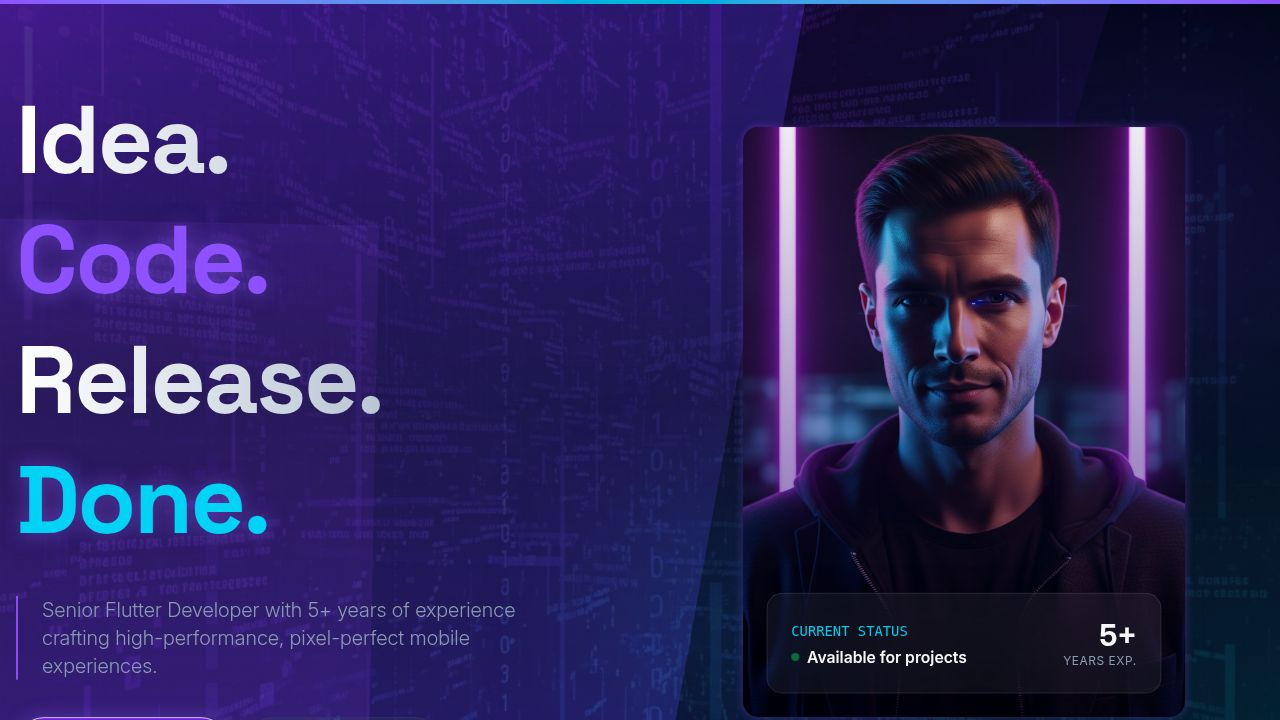
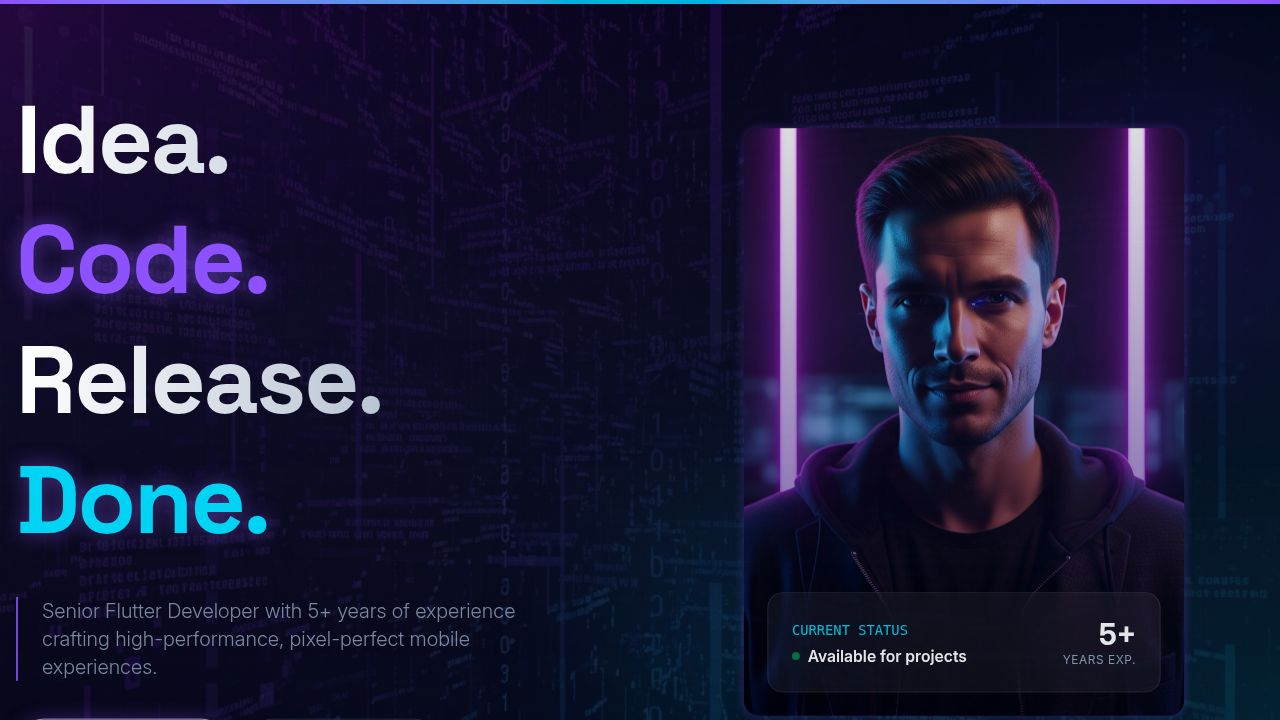
Improve smoke animation by adding a second layer and adjusting positioning
Replaced the smoke video with v2 and adjusted the mix-blend-mode opacity. Implemented a second video layer for increased density and seamless looping, positioning the smoke origin to the bottom-left with adjusted scaling and animation properties.

Replit-Commit-Author: Agent
Replit-Commit-Session-Id: ab001ae5-a9ba-45dd-b0eb-ac0fb0599810
Replit-Commit-Checkpoint-Type: full_checkpoint
Replit-Commit-Event-Id: 72af5a80-6b8b-4b7a-afdf-c9aaf8971863
Replit-Commit-Screenshot-Url: https://storage.googleapis.com/screenshot-production-us-central1/404bf6a3-7aa7-434f-ba7b-7717abd18e45/ab001ae5-a9ba-45dd-b0eb-ac0fb0599810/lwxWjh3
Replit-Helium-Checkpoint-Created: true

diff --git a/client/src/pages/home.tsx b/client/src/pages/home.tsx
@@ -4,7 +4,7 @@ import { ProjectsSection } from "@/components/ui/projects-section";
 import { RecommendationsSection } from "@/components/ui/recommendations-section";
 import { ExperienceSection } from "@/components/ui/experience-section";
 import { Footer } from "@/components/ui/footer";
-import smokeVideo from "@/assets/videos/smoke-overlay.mp4";
+import smokeVideo from "@/assets/videos/smoke-overlay-v2.mp4";
 
 export default function Home() {
   return (
@@ -13,14 +13,24 @@ export default function Home() {
       
       {/* Cinematic Smoke Effect Overlay */}
       <div className="fixed inset-0 z-0 pointer-events-none overflow-hidden bg-slate-950">
-        <div className="absolute inset-0 w-full h-full mix-blend-screen opacity-80">
+        <div className="absolute inset-0 w-full h-full mix-blend-screen opacity-60">
           <video 
             src={smokeVideo} 
             autoPlay 
             loop 
             muted 
             playsInline
-            className="absolute inset-0 w-full h-full object-cover scale-110"
+            className="absolute inset-0 w-full h-full object-cover object-left-bottom scale-125 origin-bottom-left"
+          />
+          {/* Second layer for density and seamlessness */}
+           <video 
+            src={smokeVideo} 
+            autoPlay 
+            loop 
+            muted 
+            playsInline
+            className="absolute inset-0 w-full h-full object-cover object-left-bottom scale-150 origin-bottom-left opacity-50 mix-blend-screen animate-pulse duration-[10000ms]"
+            style={{ animationDelay: '-3s' }}
           />
         </div>
       </div>